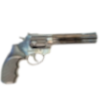
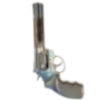
1.12
made the rotation

diff --git a/Valera.py b/Valera.py
@@ -1,16 +1,22 @@
 import pygame
 import random
 import config
+import time
 
 class Valera(pygame.sprite.Sprite):
     def __init__(self, cords, filename):
         pygame.sprite.Sprite.__init__(self)
         self.image = pygame.image.load(filename).convert_alpha()
+        self.image_clean = self.image.copy()
         self.rect = self.image.get_rect(center=cords)
 
-    def random_person(self, players_amount):
+    def random_person(self, players_amount, step):
         self.person = random.randint(0, players_amount)
+        print(self.person)
+        for i in range(360):
+            self.rotation(1)
+        self.rotation(self.person * step)
 
     def rotation(self, angle):
-        self.image = pygame.transform.rotate(self.image, angle)
+        self.image = pygame.transform.rotate(self.image_clean, angle)
         self.rect = self.image.get_rect(center=config.SCREEN_CENTER)

diff --git a/TestGame.py b/TestGame.py
@@ -20,7 +20,7 @@ def player_cords(x, y):
     """ Counting players positions """
     return (x + math.sin((step * i) * (math.pi / (config.CIRCLE / 2))) * config.PADDING, y - math.cos((step * i) * (math.pi / (config.CIRCLE / 2))) * config.PADDING)
 
-angle = 100
+angle = 0
 running = True
 while running:
 
@@ -34,10 +34,12 @@ while running:
                 players[3].killed('img/icon-dead.png')
             if event.key == pygame.K_RIGHT:
                 players.remove(players[-1])
+            if event.key == pygame.K_SPACE:
+                valera.random_person(len(players), step)
 
-    keys = pygame.key.get_pressed()
+    '''keys = pygame.key.get_pressed()
     if keys[pygame.K_SPACE]:
-        valera.rotation(-5)
+        valera.random_person(len(players), step)'''
 
     screen.fill(config.COLORS['WHITE'])
 
